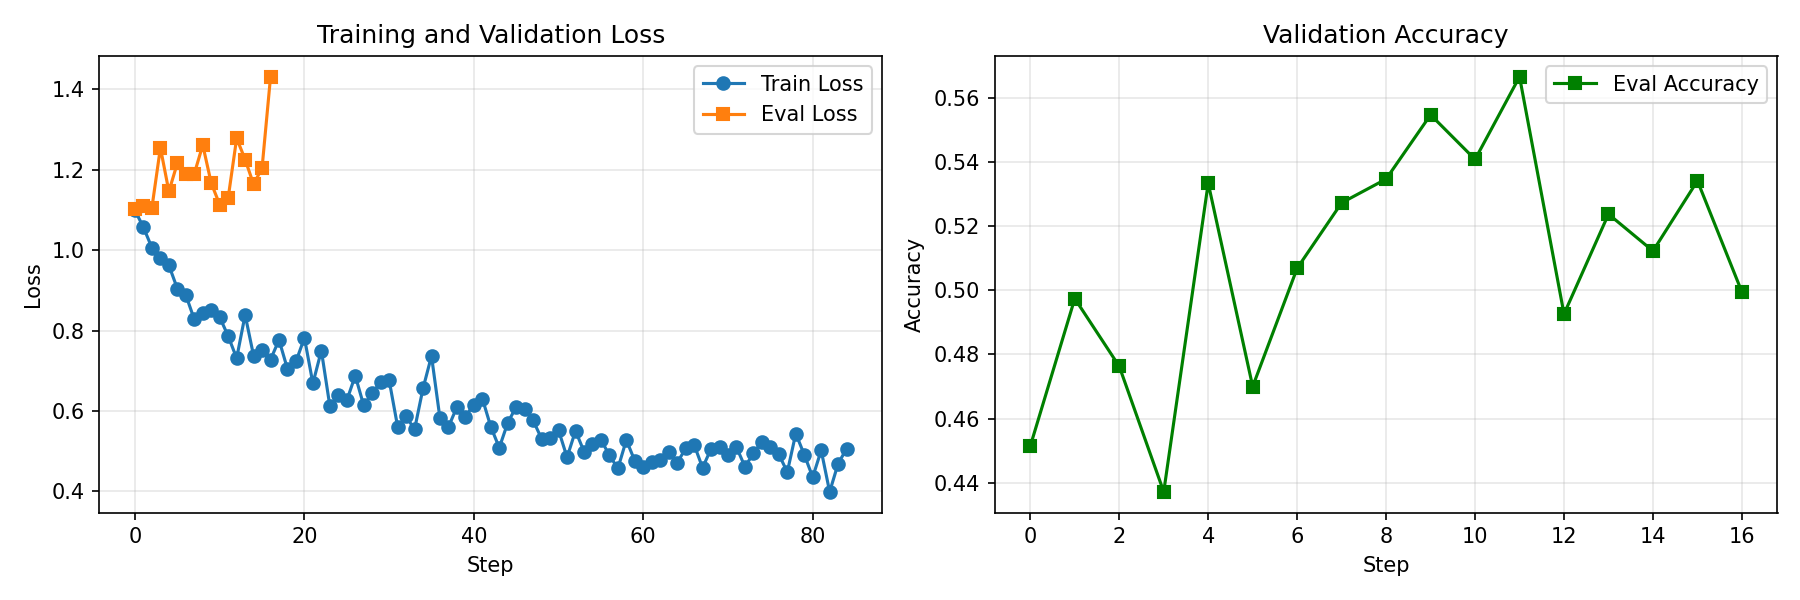
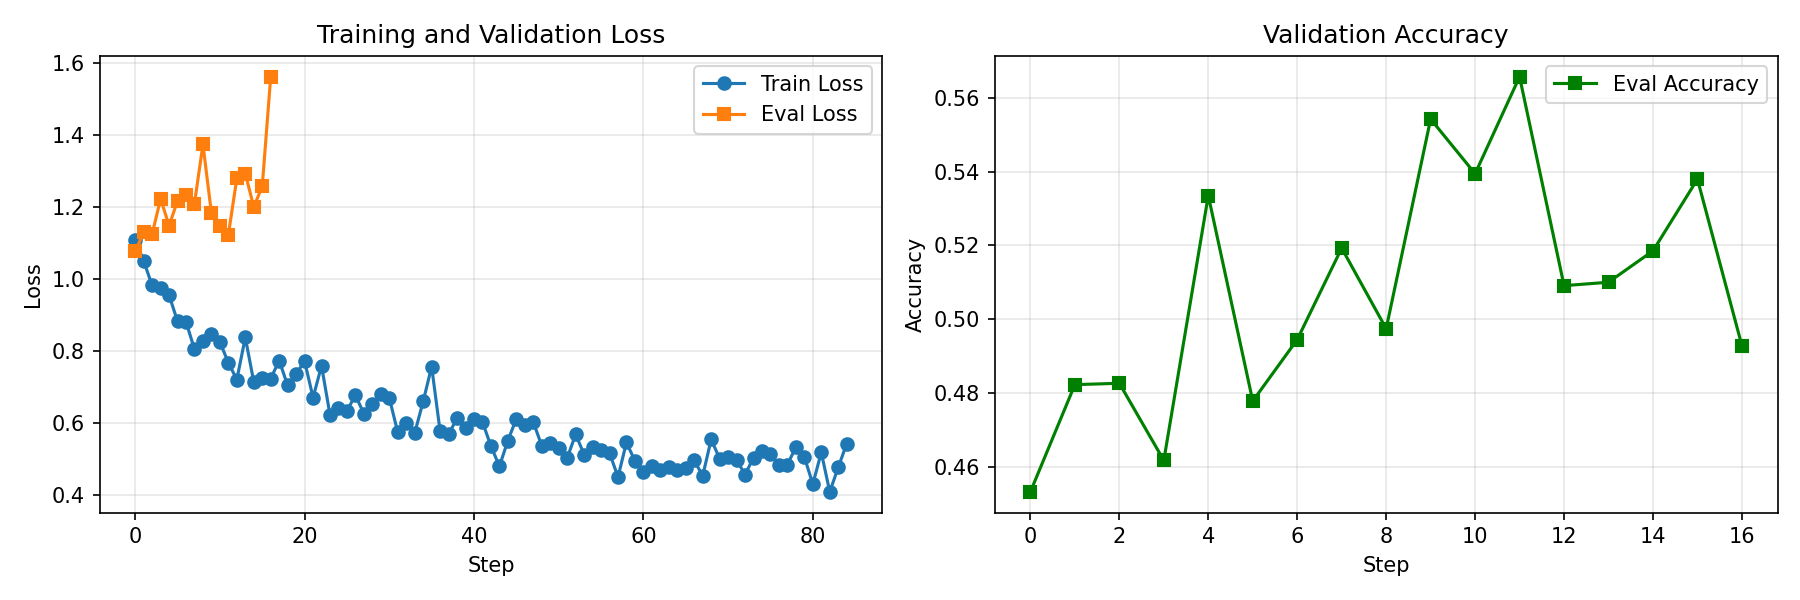
updated

diff --git a/wav2vec/deepseek_wav2vec_test_xpu.py b/wav2vec/deepseek_wav2vec_test_xpu.py
@@ -190,7 +190,7 @@ def finetune_wav2vec2(num_classes, output_dir="wav2vec2_finetuned"):
             "facebook/wav2vec2-base",
             num_labels=num_classes,
             use_weighted_layer_sum=True,
-            classifier_proj_size=256,
+            classifier_proj_size=512,
             layerdrop=0.0,
             mask_time_prob=0.0,
             hidden_dropout=0.1,
